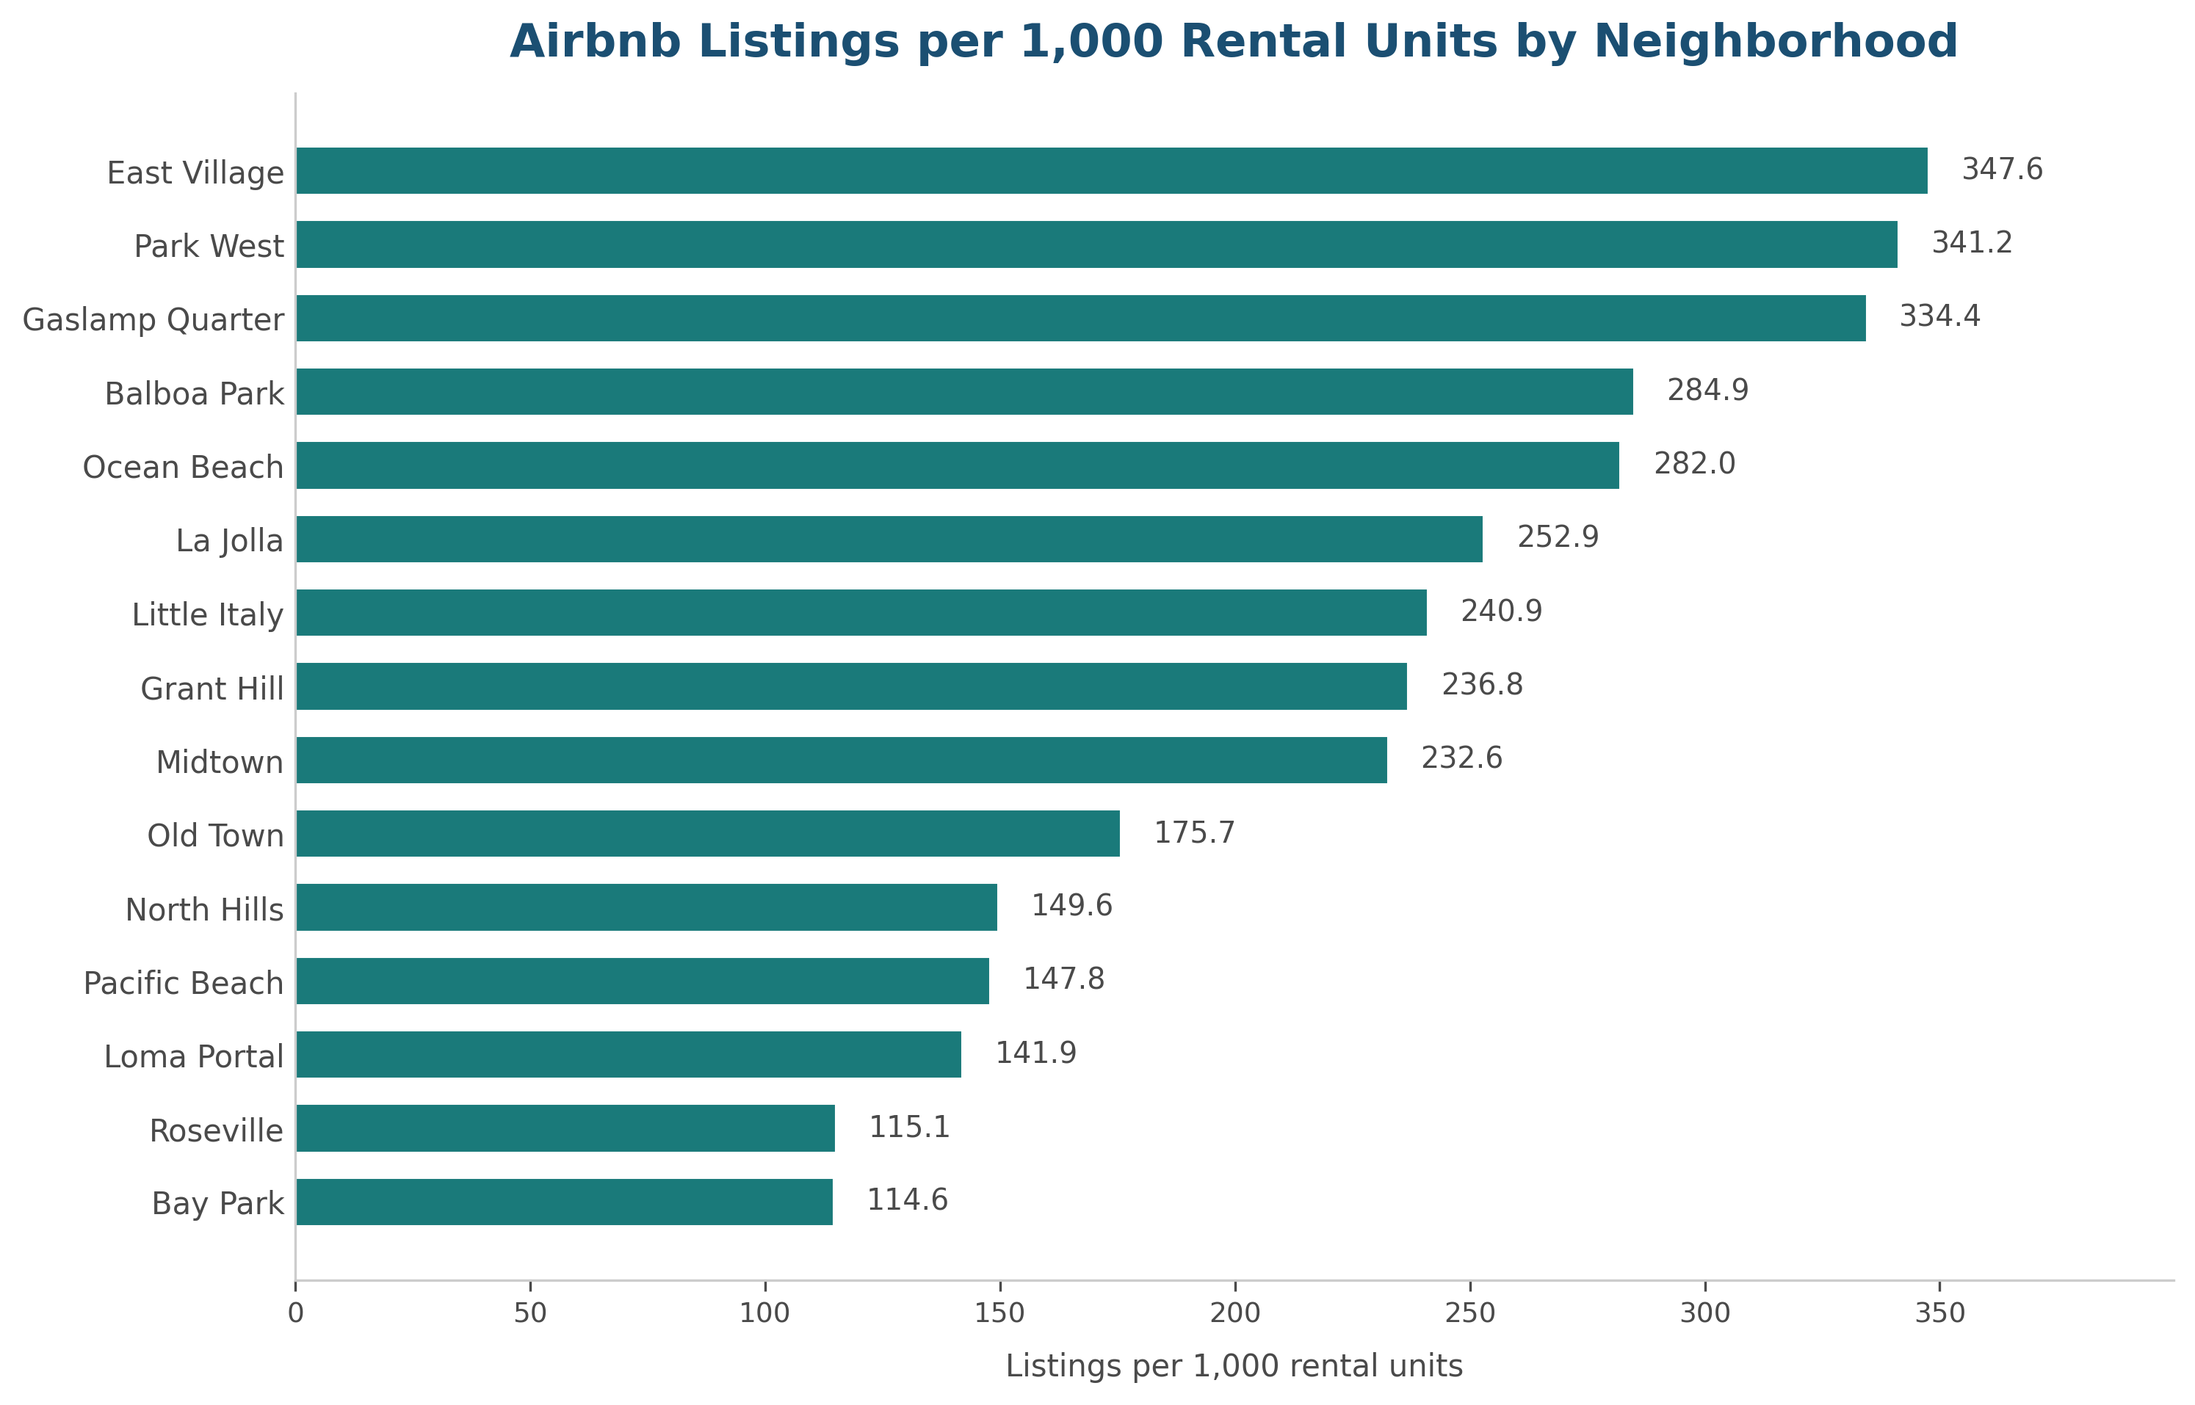
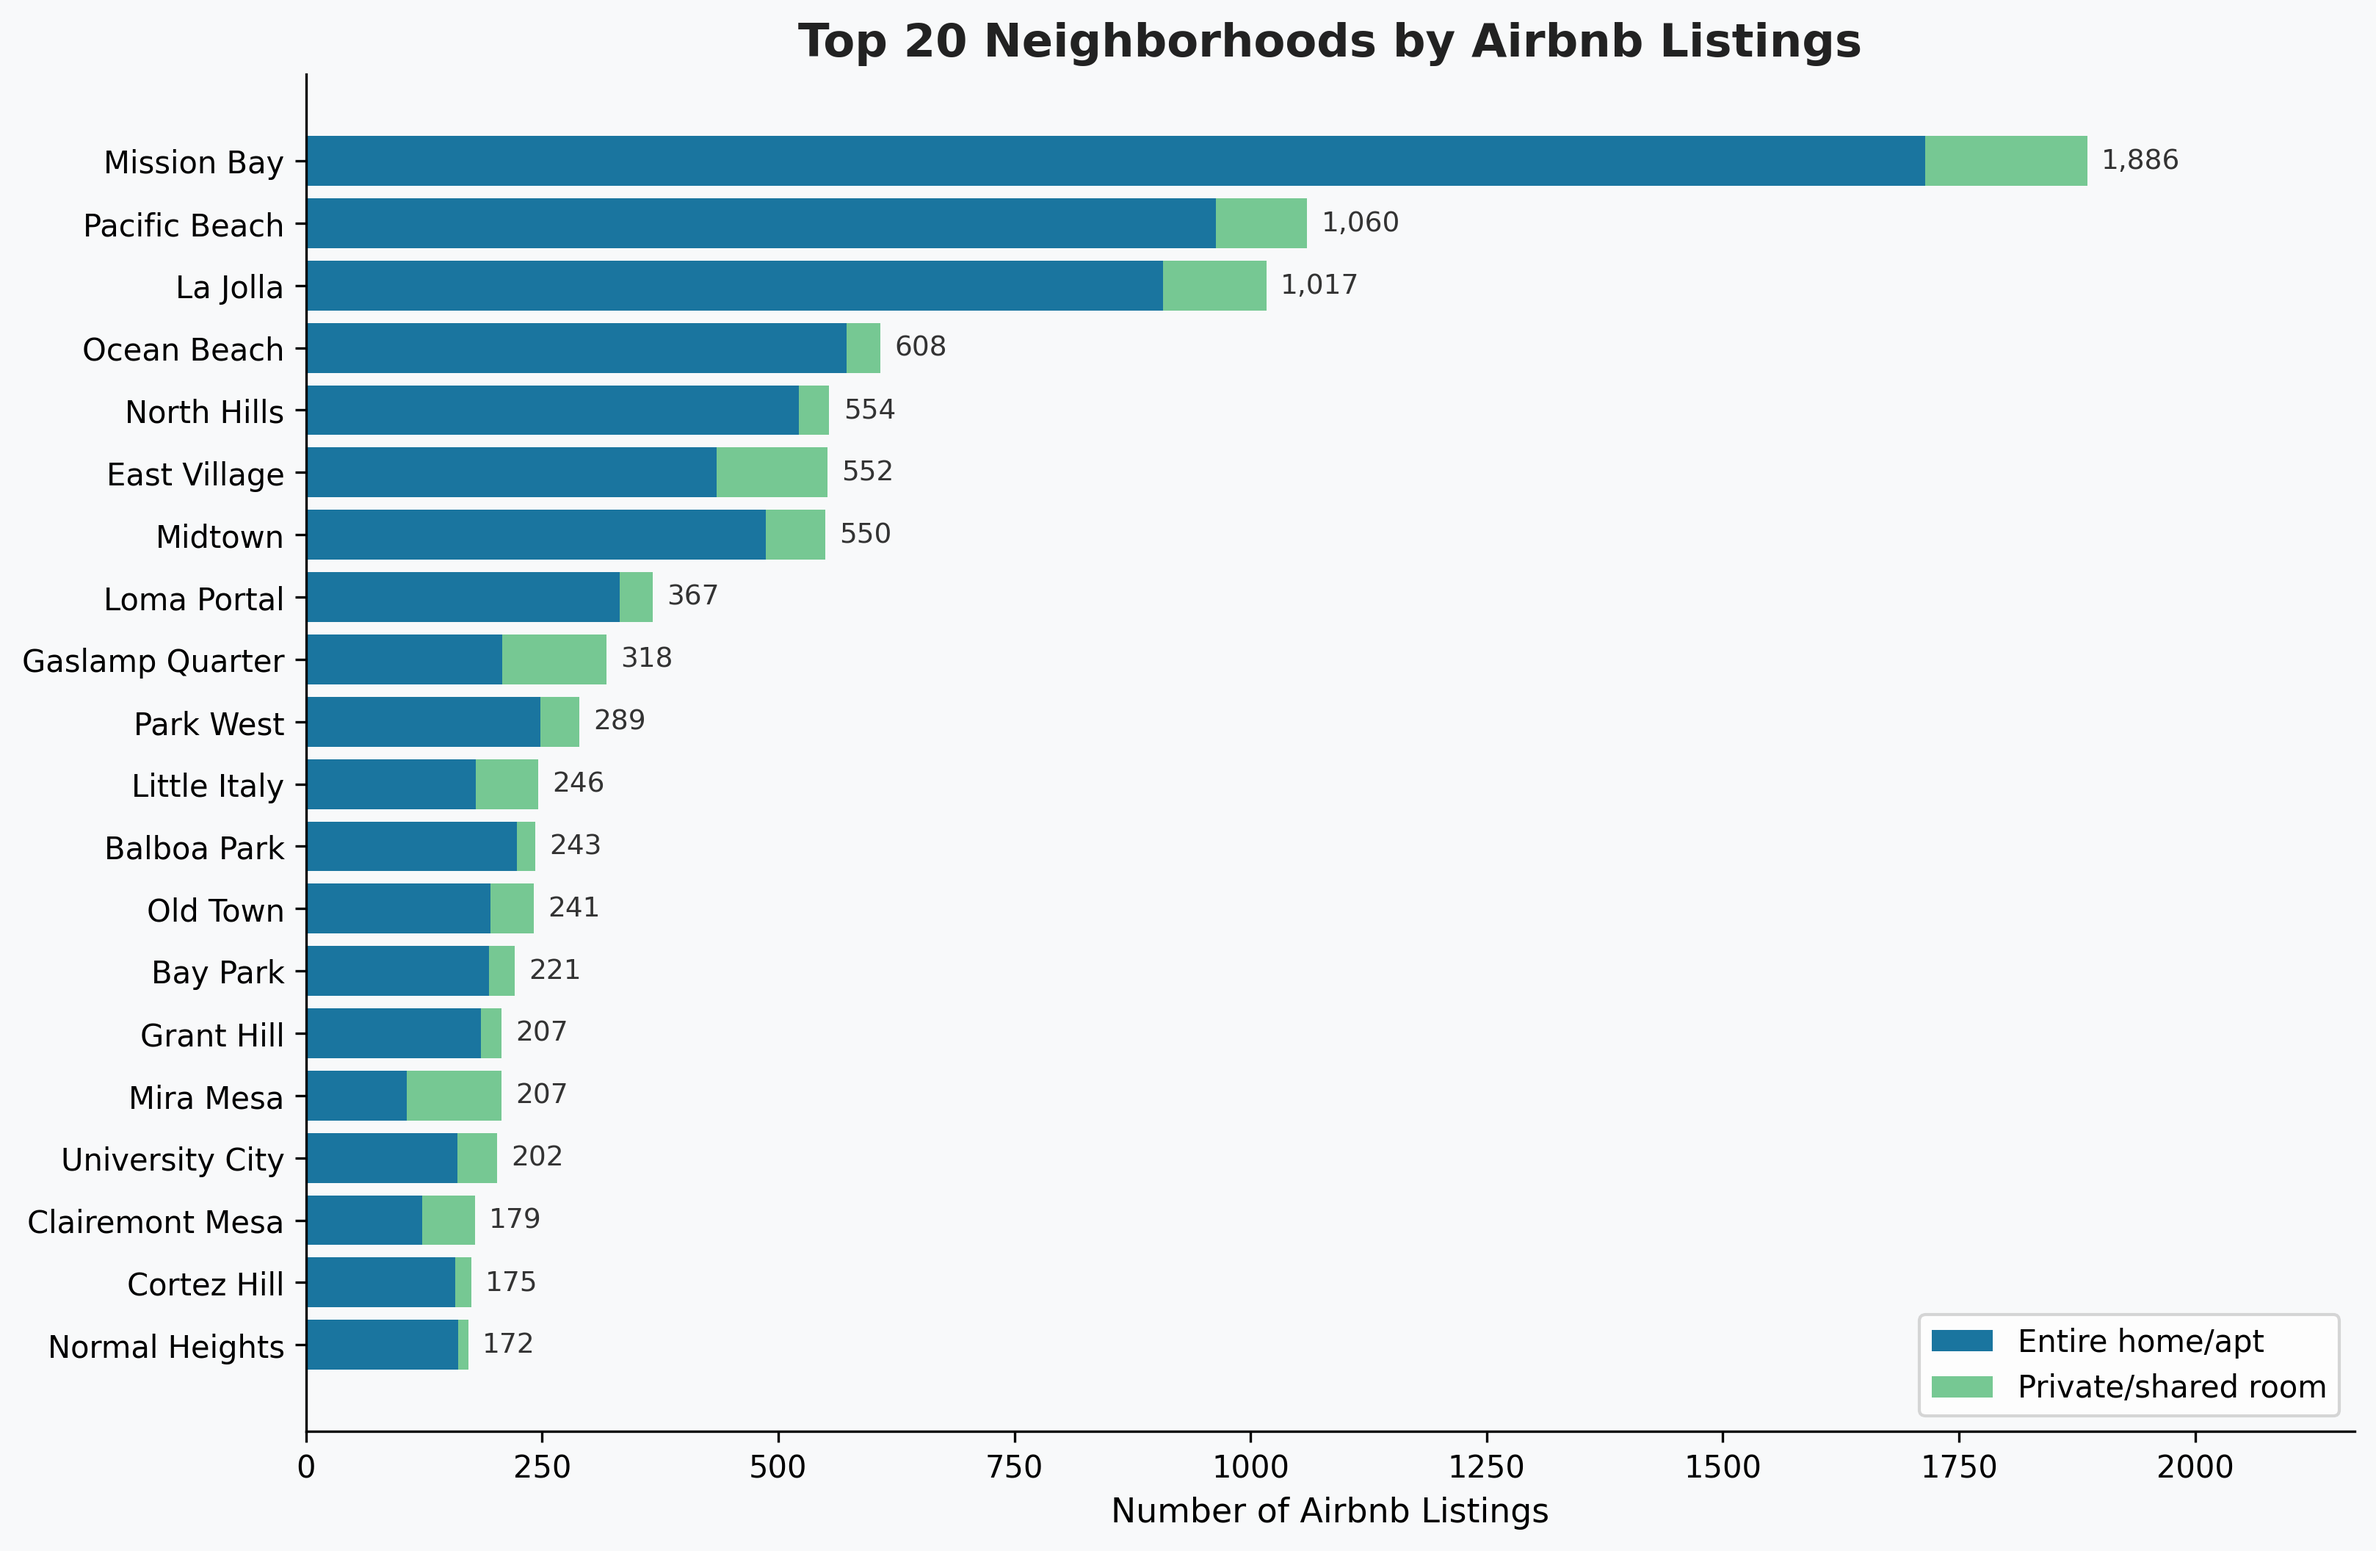
fix(docs): rebuild treemap and Airbnb charts
Treemap: labels no longer overflow boxes, small boxes show only unit
count. Airbnb chart: changed from per-1000-rental-units (which had a
denominator problem since parcels lump most of SD into one community)
to raw listing counts by neighborhood with entire-home vs shared-room
breakdown across 20 neighborhoods.

diff --git a/README.md b/README.md
@@ -7,13 +7,28 @@ a unified dataset for research and policy analysis.
 
 ## Key Findings
 
+**Housing stock:**
 - **1,089,584** parcels in San Diego County
 - **1,196,234** residential units, of which **712,794** are rental (non-owner-occupied)
 - **City of San Diego**: 541,753 residential units, 341,266 rental units
-- Hotel rooms (65K) are excluded from the rental inventory as transient lodging
+- Only **2.7%** of housing stock was built since 2021 (25K units)
+- **60% of condos** are investor-owned rentals (vs 36% of single-family homes)
+
+**Property management:**
 - **639 properties** mapped to **74 property management companies** managing **60,000+ units**
-- **8,325 active STRO licenses** (Airbnb-style short-term rentals) = 2.44% of city rental units
-- **13,162 Airbnb listings** scraped from Inside Airbnb (vs 8,325 licensed STROs)
+- Top 10 PMCs control **66%** of professionally managed units
+- The remaining ~250K apartment units have no known PM attribution
+
+**Short-term rentals:**
+- **8,325 active STRO licenses** = 2.44% of city rental units
+- **13,162 Airbnb listings** (metro-wide, not directly comparable to city-only STROs)
+- **6.4% of Airbnb hosts** control **43% of listings**; the largest host operates 169 listings
+- 4 coastal neighborhoods (Mission Bay, Pacific Beach, La Jolla, Ocean Beach) account for 35% of all Airbnb activity
+
+**Quality of life (City of San Diego):**
+- Illegal dumping is the #1 complaint type (471K reports), still growing
+- Encampment complaints grew from 1,140 (2018) to 66,573 (2023), now declining
+- 1 in 5 police calls for service are renter-relevant (noise, disturbances, trespassing, theft)
 
 ## Visualizations
 
@@ -24,7 +39,7 @@ Share of PMC-managed rental units across San Diego County by property management
 Percentage of parcels classified as rental vs owner-occupied for each residential property type.
 
 ![Airbnb Concentration by Neighborhood](docs/images/airbnb_concentration.png)
-Airbnb listing density per 1,000 rental units in the top 15 neighborhoods.
+Top 20 neighborhoods by Airbnb listings, split by entire-home vs shared-room rentals.
 
 ## Data Sources
 
